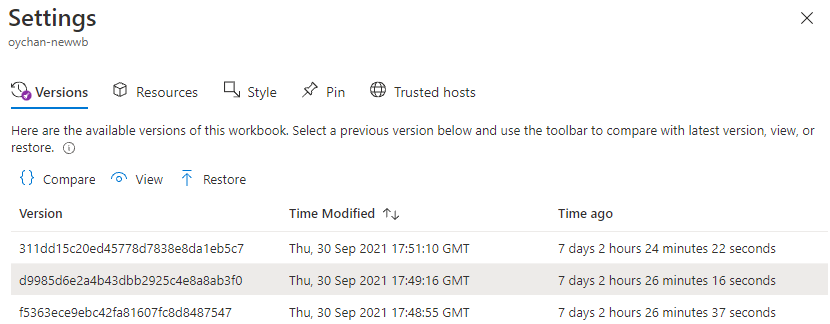
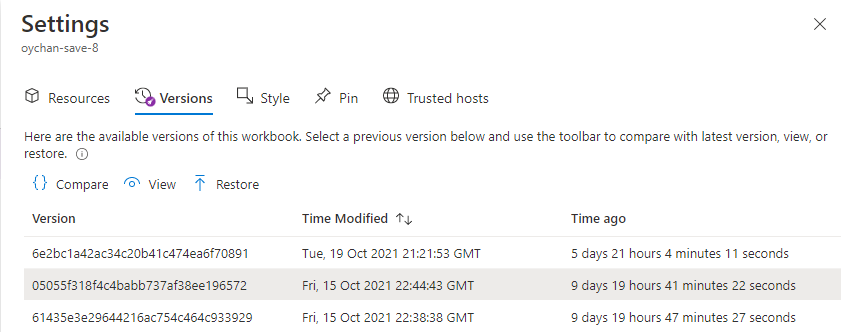
move versions to second tab, update screenshot and discription

diff --git a/Documentation/Settings/Settings.md b/Documentation/Settings/Settings.md
@@ -2,10 +2,17 @@
 
 In the workbooks settings context pane, there are a couple of tabs which can be configured for the workbook.
 
-## Versions
-This tab contains a list of all the available versions of this workbook. Select a version and use the toolbar to [Compare](#compare), [View](#view), and [Restore](#restore).
+## Resources
+These are the resources that will appear as default selections in steps in this workbook.
 
-__NOTE:__ Workbook versions are usually retained for 90 days.
+One of them will be marked as the 'Owner' resource. That's where the workbook will go when you save, and which workbooks and templates you'll see when browsing. The owner resource cannot be removed.
+
+In the grid shown, click on `Add Resources` to browse for any resource that you would like to add to the default selections of the workbook. Also you can multiselect resources in the grid and `Remove Selected Resources` as well. When you are done adding and removing resources, click on `Apply Changes`.
+
+## Versions
+This tab contains a list of all the available versions of this workbook. Select a version and use the toolbar to [Compare](#compare), [View](#view), and [Restore](#restore). Previous workbook versions are available for 90 days.
+
+> **_NOTE_**: Version history is not available for [Bring your own storage](../BYOS/BringYourOwnStorage.md) workbooks
 
 ![Image showing the versions tab](../Images/WorkbookVersions.png)
 
@@ -20,13 +27,6 @@ This will open the selected version of the workbook in a context pane.
 
 ### Restore
 Restoring the selected version will open the prompt to confirm the action. Once confirmed, `Restore` will save a new copy of the workbook with the contents of the selected version and overwrite any existing current content.
-
-## Resources
-These are the resources that will appear as default selections in steps in this workbook.
-
-One of them will be marked as the 'Owner' resource. That's where the workbook will go when you save, and which workbooks and templates you'll see when browsing. The owner resource cannot be removed.
-
-In the grid shown, click on `Add Resources` to browse for any resource that you would like to add to the default selections of the workbook. Also you can multiselect resources in the grid and `Remove Selected Resources` as well. When you are done adding and removing resources, click on `Apply Changes`.
 
 ## Style
 In this tab, you can set a padding and spacing style for the whole workbook. The possible options are `Wide`, `Standard`, `Narrow`, `None`. `Standard` is the default style setting.
